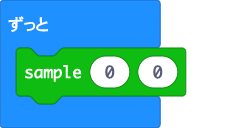
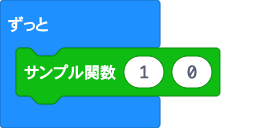
更新 main.blocks, main.ts, sandbox.ts, _locales/ja/pxt-microbit-sandbox-strings.json

diff --git a/sandbox.ts b/sandbox.ts
@@ -1,4 +1,3 @@
-
 //% weight=100
 //% color=#0fbc11
 //% icon="\uf0c3"
@@ -7,12 +6,9 @@ namespace sandbox {
     /**
      * sample function
      */
-    //% block
+    //% block="sample $arg1 $arg2"
     export function sample(arg1: number, arg2: number) {
-
+        basic.showNumber(arg1)
     }
-
-
-
 
 }

diff --git a/main.ts b/main.ts
@@ -1,3 +1,3 @@
 basic.forever(function () {
-    sandbox.sample(0, 0)
+    sandbox.sample(1, 0)
 })
